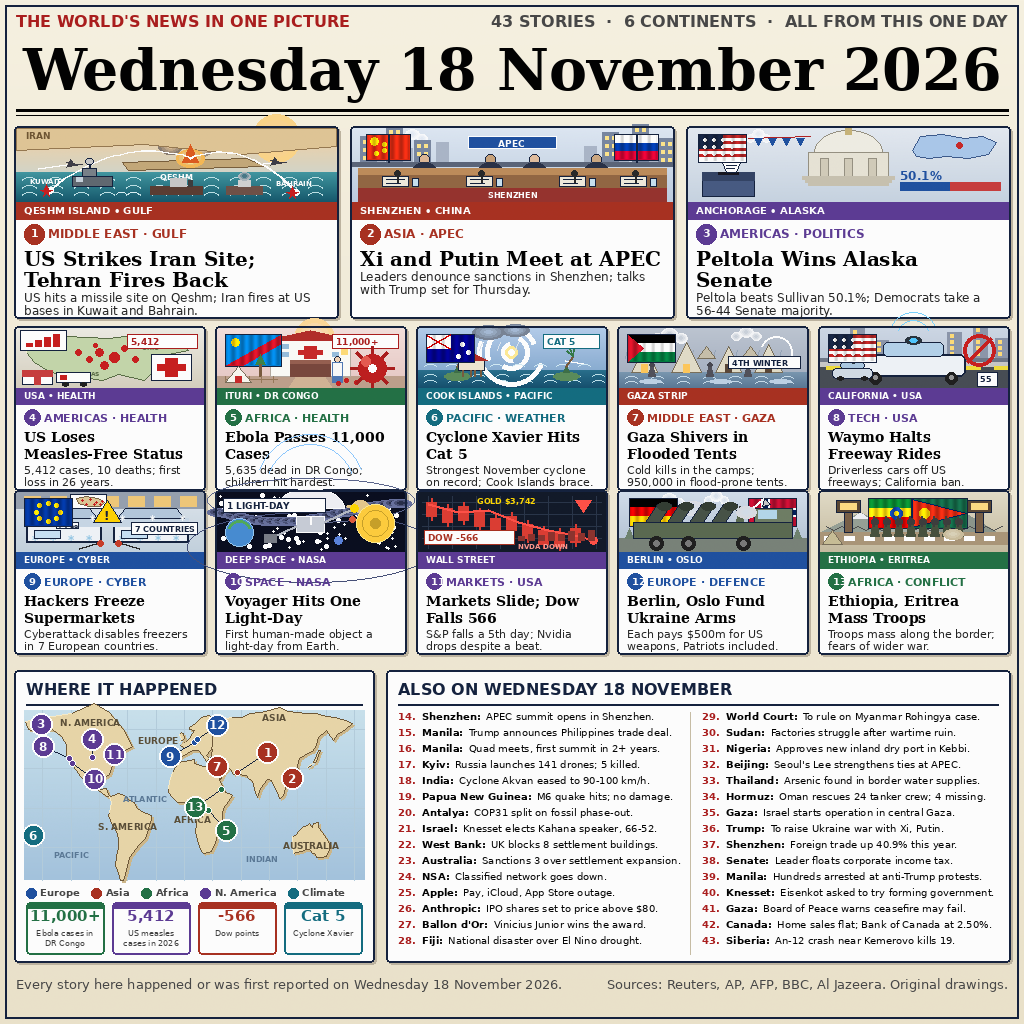
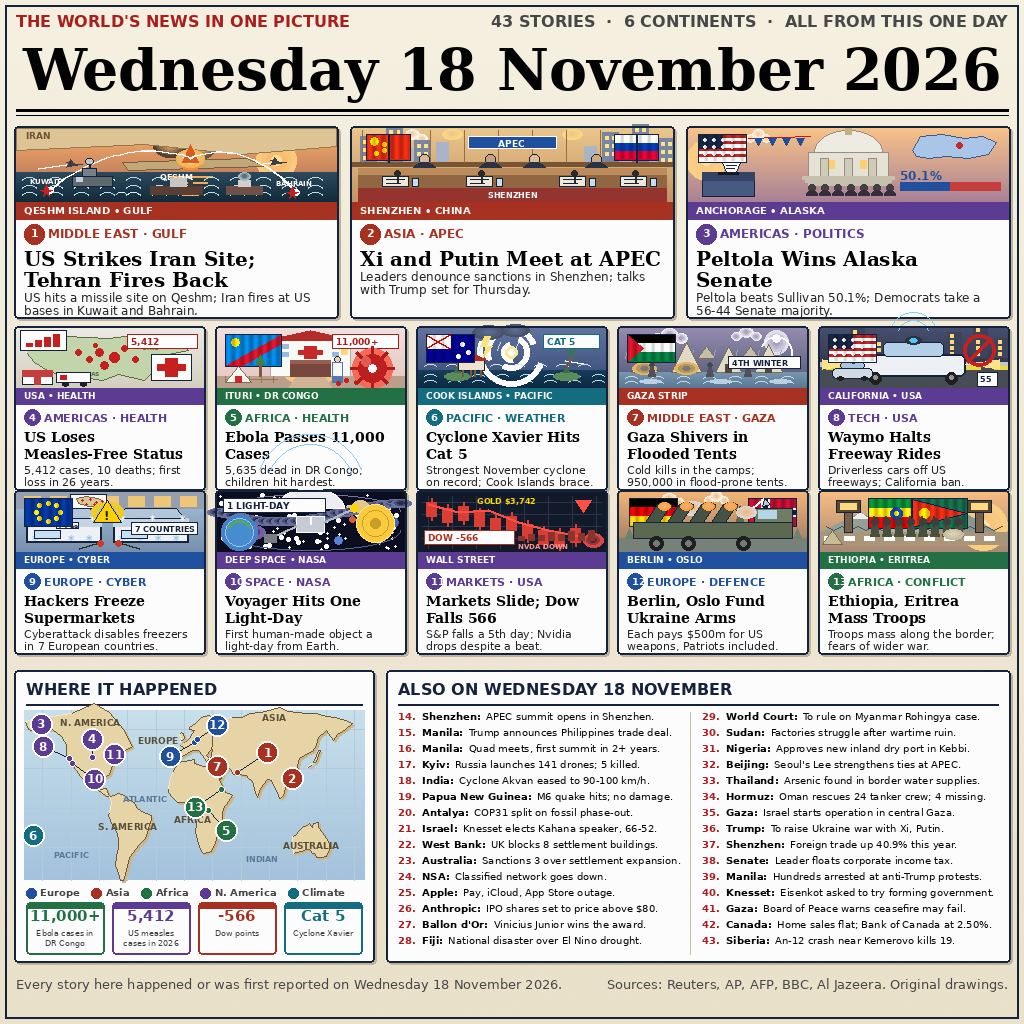
Revise: realistic dramatic illustrations like @artch0 — dusk Gulf fire, warm APEC room, dusk Capitol crowd, storm Xavier, glowing Voyager; fix orbit spill

diff --git a/tools/generate-image.py b/tools/generate-image.py
@@ -225,9 +225,9 @@ def pic(kind, x, y, w, h):
     if kind == "gulf":
         # the Gulf at dusk: Iran's coast along the top, the strait below,
         # a missile site on Qeshm flashing, US base markers, a tanker
-        vgrad(x, y, w, h, (246, 210, 160), (190, 216, 228))
-        sun_glow(x + w - 60, y + 10, 6, (246, 210, 160))
-        cloud(x + 50, y + 8, 10, (246, 210, 160))
+        vgrad(x, y, w, h, (252, 176, 104), (168, 104, 88))
+        sun_glow(x + w - 60, y + 32, 5, (252, 176, 104))
+        cloud(x + 50, y + 8, 10, (252, 176, 104))
         # fighter jets with contrails over the open water
         for jx, jy in [(x + 56, y + 34), (x + 260, y + 32)]:
             d.line([(jx - 34, jy + 6), (jx - 6, jy + 2)], fill=(255, 255, 255), width=2)
@@ -235,14 +235,17 @@ def pic(kind, x, y, w, h):
                       fill=(60, 60, 70))
             d.polygon([(jx - 2, jy - 3), (jx + 2, jy + 2), (jx - 4, jy + 3)], fill=(60, 60, 70))
         # layered smoke columns rising from the strike on Qeshm
-        soft_disc(x + w // 2 - 6, y + 18, 12, 8, (120, 110, 105), (246, 210, 160), steps=4)
-        soft_disc(x + w // 2 + 26, y + 22, 9, 6, (140, 130, 125), (246, 210, 160), steps=4)
+        soft_disc(x + w // 2 - 6, y + 18, 17, 11, (52, 46, 44), (252, 176, 104), steps=5)
+        soft_disc(x + w // 2 + 26, y + 22, 12, 8, (74, 66, 62), (252, 176, 104), steps=5)
         # radar tower on the Iranian coast, right of the sun glow
         d.rectangle([x + w - 78, y + 6, x + w - 74, y + 22], fill=(90, 85, 80))
         d.ellipse([x + w - 83, y + 2, x + w - 69, y + 10], fill=(200, 200, 200),
                   outline=(90, 85, 80), width=1)
         # sea: darker toward the bottom, with wave arcs
-        vgrad(x, y + h - 30, w, 30, (64, 150, 160), (20, 88, 108))
+        vgrad(x, y + h - 30, w, 30, (44, 72, 92), (16, 42, 58))
+        # firelight from the Qeshm strike reflected on the dark water
+        for rw_, rwid in [(y + h - 26, 44), (y + h - 20, 34), (y + h - 14, 24), (y + h - 8, 16)]:
+            d.line([(x + w // 2 + 14 - rwid // 2, rw_), (x + w // 2 + 14 + rwid // 2, rw_)], fill=(255, 170, 70), width=2)
         for wy in (y + h - 22, y + h - 14, y + h - 7):
             for wx in range(x + 6, x + w - 12, 26):
                 d.arc([wx, wy - 3, wx + 14, wy + 3], 180, 360, fill=(190, 225, 230), width=1)
@@ -255,6 +258,7 @@ def pic(kind, x, y, w, h):
         d.polygon([(x + w // 3, y + 34), (x + w * 0.72, y + 30), (x + w * 0.78, y + 38),
                    (x + w // 3 + 6, y + 42)], fill=(196, 168, 120), outline=(120, 95, 60))
         d.text((x + w // 2 - 16, y + 44), "QESHM", font=font(SANSB, 8), fill=(255, 255, 255))
+        soft_disc(x + w // 2 + 14, y + 32, 13, 9, (255, 140, 40), (252, 176, 104), steps=4)
         soft_disc(x + w // 2 + 14, y + 30, 14, 9, (255, 180, 60), (200, 216, 228), steps=4)
         soft_disc(x + w // 2 + 14, y + 30, 7, 5, (255, 230, 130), (200, 216, 228), steps=3)
         d.polygon([(x + w // 2 + 6, y + 34), (x + w // 2 + 14, y + 16), (x + w // 2 + 22, y + 34)],
@@ -303,8 +307,10 @@ def pic(kind, x, y, w, h):
     elif kind == "apec":
         # APEC summit in Shenzhen: tower skyline, a long summit table,
         # Chinese and Russian flags on poles, folders and microphones
-        vgrad(x, y, w, h, (222, 232, 244), (190, 205, 225))
-        cloud(x + 60, y + 8, 10, (222, 232, 244))
+        vgrad(x, y, w, h, (238, 200, 140), (196, 150, 100))
+        soft_disc(x + w // 2 - 60, y + 6, 10, 5, (255, 220, 130), (238, 200, 140), steps=4)
+        soft_disc(x + w // 2 + 60, y + 6, 10, 5, (255, 220, 130), (238, 200, 140), steps=4)
+        cloud(x + 60, y + 8, 10, (238, 200, 140))
         # a fainter second row of towers behind the skyline
         for tx, th in [(x + 20, 18), (x + 48, 14), (x + 84, 20), (x + w - 88, 16),
                        (x + w - 56, 20), (x + w - 26, 14)]:
@@ -316,7 +322,9 @@ def pic(kind, x, y, w, h):
             for wy in range(y + 38 - th, y + 32, 8):
                 d.rectangle([tx + 3, wy, tx + 6, wy + 3], fill=(255, 230, 140))
                 d.rectangle([tx + 10, wy, tx + 13, wy + 3], fill=(255, 230, 140))
-        d.rectangle([x, y + 34, x + w, y + 38], fill=(90, 100, 120))
+        d.rectangle([x, y + 34, x + w, y + 38], fill=(120, 84, 52))
+        for wx_ in range(x + 10, x + w - 10, 34):
+            d.line([(wx_, y + 2), (wx_, y + 34)], fill=(150, 108, 66), width=1)
         # flags on poles behind the table
         flag("china", x + 14, y + 6, 44, 26)
         d.line([(x + 36, y + 6), (x + 36, y + 34)], fill=NAVY, width=2)
@@ -349,8 +357,9 @@ def pic(kind, x, y, w, h):
                fill=(255, 255, 255))
     elif kind == "senate":
         # Alaska Senate race: US Capitol dome, a ballot box, vote bars
-        vgrad(x, y, w, h, (228, 234, 242), (200, 212, 226))
-        cloud(x + 70, y + 8, 8, (228, 234, 242))
+        vgrad(x, y, w, h, (252, 196, 138), (170, 130, 150))
+        cloud(x + 70, y + 8, 8, (252, 196, 138))
+        sun_glow(x + 18, y + 32, 5, (252, 196, 138))
         # Alaska, top-right, with a star on Anchorage
         ak = [(x + w - 96, y + 22), (x + w - 88, y + 8), (x + w - 66, y + 6),
               (x + w - 44, y + 10), (x + w - 26, y + 8), (x + w - 12, y + 14),
@@ -364,6 +373,8 @@ def pic(kind, x, y, w, h):
                    fill=(240, 238, 228), outline=(150, 145, 130), width=1)
         d.rectangle([x + w // 2 - 40, y + 24, x + w // 2 + 40, y + h - 26],
                     fill=(232, 228, 214), outline=(150, 145, 130), width=1)
+        for wx_ in (x + w // 2 - 20, x + w // 2 + 12):
+            d.rectangle([wx_, y + 32, wx_ + 6, y + 40], fill=(255, 210, 110))
         for cx in (x + w // 2 - 28, x + w // 2 - 4, x + w // 2 + 20):
             d.rectangle([cx, y + 30, cx + 8, y + h - 26], fill=(210, 204, 186),
                         outline=(150, 145, 130), width=1)
@@ -374,6 +385,10 @@ def pic(kind, x, y, w, h):
                          x + w // 2 + 46 - sstep * 3, y + h - 23 + sstep * 3],
                         fill=(200, 194, 176))
         d.line([(x + 60, y + 10), (x + 122, y + 8)], fill=(178, 34, 34), width=1)
+        # a crowd gathered on the Capitol steps at dusk
+        for cx_ in range(x + w // 2 - 40, x + w // 2 + 44, 13):
+            d.ellipse([cx_, y + h - 18, cx_ + 7, y + h - 11], fill=(70, 60, 70))
+            d.pieslice([cx_ - 2, y + h - 12, cx_ + 9, y + h - 2], 180, 360, fill=(50, 45, 60))
         for bx_ in range(x + 66, x + 120, 14):
             d.polygon([(bx_, y + 10), (bx_ + 8, y + 10), (bx_ + 4, y + 17)],
                       fill=(30, 80, 160))
@@ -439,7 +454,8 @@ def pic(kind, x, y, w, h):
         # a clinic in the Congo: warm wall, red roof, virus at right
         vgrad(x, y, w, h, (244, 224, 220), (232, 200, 196))
         d.rectangle([x, y + h - 12, x + w, y + h], fill=(190, 160, 140))
-        sun_glow(x + w - 90, y + 10, 5, (244, 224, 220))
+        sun_glow(x + w - 90, y + 30, 6, (244, 224, 220))
+        soft_disc(x + w // 2, y + h - 14, 26, 10, (255, 200, 110), (232, 200, 196), steps=4)
         d.polygon([(x + w // 2 - 14, y + h - 12), (x + w // 2 + 14, y + h - 12),
                    (x + w // 2 + 22, y + h), (x + w // 2 - 22, y + h)], fill=(210, 180, 150))
         d.rectangle([x + w // 2 - 40, y + 12, x + w // 2 + 40, y + h - 12], fill=(252, 252, 248),
@@ -482,6 +498,7 @@ def pic(kind, x, y, w, h):
         d.text((x + w - 68, y + 8), "11,000+", font=font(SANSB, 9), fill=RED)
         # the virus: spiked red ball, lower-right
         cx, cy, r = x + w - 32, y + h // 2 + 10, 14
+        soft_disc(cx, cy, 20, 20, (255, 90, 70), (232, 200, 196), steps=3)
         for ang in range(0, 360, 45):
             dx, dy = math.cos(math.radians(ang)), math.sin(math.radians(ang))
             d.line([cx + dx * r, cy + dy * r, cx + dx * (r + 8), cy + dy * (r + 8)],
@@ -491,15 +508,15 @@ def pic(kind, x, y, w, h):
         d.ellipse([cx - 4, cy - 4, cx + 4, cy + 4], fill=(255, 255, 255))
     elif kind == "cyclone":
         # a Category 5 spiral over the Pacific, small islands below
-        vgrad(x, y, w, h, (180, 205, 235), (120, 160, 200))
-        vgrad(x, y + h - 18, w, 18, (40, 110, 140), (20, 80, 110))
+        vgrad(x, y, w, h, (96, 116, 160), (52, 74, 118))
+        vgrad(x, y + h - 18, w, 18, (20, 60, 90), (10, 40, 65))
         for wy in (y + h - 12, y + h - 6):
             for wx in range(x + 6, x + w - 12, 24):
                 d.arc([wx, wy - 2, wx + 12, wy + 2], 180, 360, fill=(190, 225, 235), width=1)
         # spiral arms: concentric arcs shrinking toward the eye
         cx, cy = x + w // 2, y + h // 2 - 6
         for rr, a0, a1 in [(34, 20, 200), (26, 160, 340), (18, 300, 120), (10, 80, 260)]:
-            d.arc([cx - rr, cy - rr, cx + rr, cy + rr], a0, a1, fill=(255, 255, 255), width=5)
+            d.arc([cx - rr, cy - rr, cx + rr, cy + rr], a0, a1, fill=(255, 255, 255), width=6)
         d.ellipse([cx - 6, cy - 6, cx + 6, cy + 6], fill=(255, 235, 150))
         d.ellipse([cx - 3, cy - 3, cx + 3, cy + 3], fill=(255, 255, 255))
         # wind streaks at the edges
@@ -507,8 +524,9 @@ def pic(kind, x, y, w, h):
                        (x + w - 40, y + h - 28)]:
             d.line([(sx, sy), (sx + 18, sy + 3)], fill=(255, 255, 255), width=2)
         # storm clouds crowding the top corners, rain slanting down
-        soft_disc(x + 70, y + 4, 16, 7, (110, 120, 135), (180, 205, 235), steps=4)
-        soft_disc(x + w - 90, y + 2, 14, 6, (110, 120, 135), (180, 205, 235), steps=4)
+        soft_disc(x + 70, y + 4, 16, 7, (70, 78, 100), (96, 116, 160), steps=4)
+        d.polygon([(x + 66, y + 8), (x + 72, y + 8), (x + 68, y + 18), (x + 74, y + 18), (x + 64, y + 30), (x + 68, y + 18), (x + 62, y + 18)], fill=(255, 230, 120))
+        soft_disc(x + w - 90, y + 2, 14, 6, (70, 78, 100), (96, 116, 160), steps=4)
         for rx in range(x + 64, x + w - 70, 18):
             d.line([(rx, y + 14), (rx - 3, y + 22)], fill=(220, 230, 240), width=1)
         # bigger waves: a second row of breakers
@@ -540,9 +558,11 @@ def pic(kind, x, y, w, h):
         d.text((x + w - 58, y + 8), "CAT 5", font=font(SANSB, 9), fill=TEAL)
     elif kind == "gaza":
         # tents in the rain: grey-blue sky, flooded ground, tent rows
-        vgrad(x, y, w, h, (190, 198, 210), (160, 172, 190))
-        cloud(x + 50, y + 8, 12, (190, 198, 210))
-        cloud(x + w - 60, y + 6, 10, (190, 198, 210))
+        vgrad(x, y, w, h, (150, 140, 175), (80, 88, 120))
+        soft_disc(x + w - 30, y + 14, 12, 12, (240, 240, 250), (150, 140, 175), steps=4)
+        d.ellipse([x + w - 34, y + 6, x + w - 26, y + 14], fill=(250, 250, 255))
+        cloud(x + 50, y + 8, 12, (150, 140, 175))
+        cloud(x + w - 60, y + 6, 10, (150, 140, 175))
         for rx in range(x + 8, x + w - 8, 22):
             d.line([(rx, y + 22), (rx - 2, y + 30)], fill=(150, 165, 185), width=1)
         # flood water along the bottom
@@ -562,6 +582,8 @@ def pic(kind, x, y, w, h):
         # warm light glowing in two tent doors, and families sheltering
         for gx_ in (x + 22, x + 64):
             d.rectangle([gx_, y + h - 24, gx_ + 6, y + h - 16], fill=(255, 200, 90))
+        soft_disc(x + 25, y + h - 20, 12, 6, (255, 200, 90), (80, 88, 120), steps=3)
+        soft_disc(x + 67, y + h - 20, 12, 6, (255, 200, 90), (80, 88, 120), steps=3)
         for fx_ in (x + 30, x + 88, x + 126):
             d.ellipse([fx_, y + h - 26, fx_ + 5, y + h - 21], fill=(70, 70, 80))
             d.polygon([(fx_ + 1, y + h - 21), (fx_ + 4, y + h - 21), (fx_ + 6, y + h - 12),
@@ -578,12 +600,12 @@ def pic(kind, x, y, w, h):
 
     elif kind == "waymo":
         # a driverless car on a freeway, under a red ban sign
-        vgrad(x, y, w, h, (206, 216, 230), (180, 192, 208))
+        vgrad(x, y, w, h, (70, 78, 110), (34, 40, 64))
         # city skyline along the back
         for tx, th in [(x + 8, 20), (x + 30, 30), (x + 54, 18), (x + w - 60, 26),
                        (x + w - 34, 32), (x + w - 12, 20)]:
-            d.rectangle([tx, y + 30 - th, tx + 14, y + 30], fill=(140, 150, 170))
-        d.rectangle([x, y + 30, x + w, y + 34], fill=(110, 118, 135))
+            d.rectangle([tx, y + 30 - th, tx + 14, y + 30], fill=(60, 66, 90))
+        d.rectangle([x, y + 30, x + w, y + 34], fill=(50, 55, 75))
         # lit windows in the skyline towers
         for tx, th in [(x + 8, 20), (x + 30, 30), (x + 54, 18), (x + w - 60, 26),
                        (x + w - 34, 32), (x + w - 12, 20)]:
@@ -601,6 +623,9 @@ def pic(kind, x, y, w, h):
                             radius=5, fill=(180, 210, 235), outline=NAVY, width=1)
         d.ellipse([x + w // 2 - 8, y + h - 52, x + w // 2 + 8, y + h - 44], fill=(40, 50, 60))
         d.ellipse([x + w // 2 - 4, y + h - 50, x + w // 2 + 4, y + h - 46], fill=(80, 200, 255))
+        # headlight beams cutting across the dark freeway
+        d.polygon([(x + w // 2 + 52, y + h - 24), (x + w - 8, y + h - 29), (x + w - 8, y + h - 19)], fill=(255, 230, 140))
+        d.polygon([(x + w // 2 - 52, y + h - 24), (x + 2, y + h - 29), (x + 2, y + h - 19)], fill=(255, 230, 140))
         d.ellipse([x + w // 2 - 44, y + h - 16, x + w // 2 - 32, y + h - 4], fill=(30, 30, 30))
         d.ellipse([x + w // 2 + 32, y + h - 16, x + w // 2 + 44, y + h - 4], fill=(30, 30, 30))
         d.ellipse([x + w // 2 - 40, y + h - 13, x + w // 2 - 36, y + h - 9], fill=(150, 150, 150))
@@ -627,7 +652,7 @@ def pic(kind, x, y, w, h):
         flag("us", x + 8, y + 6, 48, 28)
     elif kind == "cyber":
         # a supermarket freezer aisle: frosted chests, a warning sign
-        vgrad(x, y, w, h, (222, 230, 238), (196, 210, 222))
+        vgrad(x, y, w, h, (170, 195, 220), (120, 145, 175))
         # shelf wall along the back, with small packs
         d.rectangle([x, y, x + w, y + 16], fill=(150, 160, 175))
         for sx in range(x + 8, x + w - 20, 26):
@@ -660,6 +685,7 @@ def pic(kind, x, y, w, h):
         for ix in range(x + 14, x + w - 14, 30):
             d.text((ix, y + 20), "*", font=font(SANSB, 10), fill=(255, 255, 255))
         # a warning triangle between the chests, and a cut cable
+        soft_disc(x + w // 2 - 2, y + 20, 16, 10, (255, 210, 0), (170, 195, 220), steps=3)
         d.polygon([(x + w // 2 - 2, y + 8), (x + w // 2 + 12, y + 30), (x + w // 2 - 16, y + 30)],
                   fill=(255, 210, 0), outline=NAVY, width=1)
         d.text((x + w // 2 - 5, y + 16), "!", font=font(SANSB, 12), fill=NAVY)
@@ -685,15 +711,18 @@ def pic(kind, x, y, w, h):
         for mx_ in range(x, x + w, 8):
             my_ = y + h // 3 + int(10 * math.sin((mx_ - x) / 40))
             soft_disc(mx_, my_, 10, 4, (120, 130, 180), (8, 12, 30), steps=3)
-        # Saturn with its ring, top-right, and orbit lines sweeping the frame
+        soft_disc(x + 30, y + h - 20, 18, 8, (140, 110, 190), (8, 12, 30), steps=3)
+        soft_disc(x + w - 20, y + 30, 14, 7, (90, 120, 200), (8, 12, 30), steps=3)
+        # Saturn with its ring, top-right, and orbit arcs kept inside the panel
         d.ellipse([x + w - 52, y + 8, x + w - 36, y + 20], fill=(230, 200, 140))
         d.ellipse([x + w - 58, y + 12, x + w - 30, y + 16], outline=(230, 200, 140), width=2)
-        d.ellipse([x - 10, y - 14, x + w + 10, y + 30], outline=(90, 100, 140), width=1)
-        d.ellipse([x - 30, y + 20, x + w + 30, y + h + 30], outline=(70, 80, 120), width=1)
+        d.arc([x + 4, y + 2, x + w - 4, y + 36], 180, 360, fill=(110, 120, 165), width=1)
+        d.arc([x + 4, y + 18, x + w - 4, y + h - 2], 0, 180, fill=(90, 100, 140), width=1)
         # a red Mars dot and a distant blue planet
         d.ellipse([x + 132, y + 24, x + 138, y + 30], fill=(220, 90, 60))
         d.ellipse([x + w - 70, y + h - 16, x + w - 62, y + h - 8], fill=(90, 130, 220))
         # Earth, small and blue, bottom-left
+        soft_disc(x + 22, y + h - 20, 18, 18, (80, 150, 230), (8, 12, 30), steps=4)
         d.ellipse([x + 8, y + h - 34, x + 36, y + h - 6], fill=(70, 140, 210),
                   outline=(150, 200, 240), width=1)
         d.arc([x + 10, y + h - 32, x + 34, y + h - 8], 200, 340, fill=(80, 170, 90), width=3)
@@ -717,6 +746,7 @@ def pic(kind, x, y, w, h):
             d.arc([x + w // 2 - rr, y + h // 2 - 34 - rr, x + w // 2 + rr,
                    y + h // 2 - 34 + rr], 200, 340, fill=(140, 200, 255), width=1)
         # the golden record, a bright disc with grooves
+        soft_disc(x + w - 29, y + h - 29, 12, 12, (255, 205, 60), (8, 12, 30), steps=3)
         d.ellipse([x + w - 48, y + h - 48, x + w - 10, y + h - 10], fill=(255, 205, 60),
                   outline=(255, 235, 140), width=1)
         d.ellipse([x + w - 42, y + h - 42, x + w - 16, y + h - 16], outline=(200, 160, 40),
@@ -744,6 +774,7 @@ def pic(kind, x, y, w, h):
         d.line(pts, fill=(255, 80, 70), width=3)
         d.ellipse([pts[-1][0] - 4, pts[-1][1] - 4, pts[-1][0] + 4, pts[-1][1] + 4],
                   fill=(255, 80, 70))
+        soft_disc(pts[-1][0], pts[-1][1], 10, 7, (255, 80, 70), (16, 24, 40), steps=3)
         # volume bars along the bottom and a ticker tape
         for i, vh in enumerate([4, 6, 5, 8, 6, 9, 7, 10]):
             vx0 = x + 100 + i * 10
@@ -761,8 +792,8 @@ def pic(kind, x, y, w, h):
                fill=(255, 215, 0))
     elif kind == "patriot":
         # Patriot launchers on a truck, German and Norwegian flags
-        vgrad(x, y, w, h, (210, 222, 236), (178, 192, 210))
-        cloud(x + 50, y + 8, 10, (210, 222, 236))
+        vgrad(x, y, w, h, (244, 182, 118), (150, 118, 100))
+        cloud(x + 50, y + 8, 10, (244, 182, 118))
         d.rectangle([x, y + h - 14, x + w, y + h], fill=(120, 130, 120))
         for gx_ in range(x + 6, x + w - 6, 24):
             d.polygon([(gx_, y + h - 14), (gx_ + 4, y + h - 24), (gx_ + 8, y + h - 14)],
@@ -774,8 +805,8 @@ def pic(kind, x, y, w, h):
             d.polygon([(sx_ + 1, y + h - 37), (sx_ + 6, y + h - 37), (sx_ + 8, y + h - 22),
                        (sx_ - 1, y + h - 22)], fill=(90, 105, 80))
             d.line([(sx_ + 4, y + h - 36), (sx_ + 4, y + h - 46)], fill=(60, 60, 60), width=2)
-        cloud(x + w - 90, y + 6, 8, (210, 222, 236))
-        soft_disc(x + w // 2 - 20, y + 16, 12, 7, (225, 225, 230), (210, 222, 236), steps=4)
+        cloud(x + w - 90, y + 6, 8, (244, 182, 118))
+        soft_disc(x + w // 2 - 20, y + 16, 12, 7, (225, 225, 230), (244, 182, 118), steps=4)
         flag("germany", x + 10, y + 6, 48, 28)
         flag("norway", x + w - 58, y + 6, 48, 28)
         # the launcher truck, low in the frame
@@ -793,15 +824,17 @@ def pic(kind, x, y, w, h):
             d.polygon([(tx0, y + h - 30), (tx0 + 14, y + h - 30), (tx0 + 26, y + 12),
                        (tx0 + 12, y + 12)], fill=(70, 82, 70), outline=NAVY, width=1)
             d.ellipse([tx0 + 12, y + 10, tx0 + 26, y + 18], fill=(50, 60, 50))
+            soft_disc(tx0 + 19, y + 14, 6, 4, (255, 160, 60), (244, 182, 118), steps=3)
         # a missile streaking up, with a smoke trail
         d.line([(x + w // 2 + 40, y + 16), (x + w // 2 + 52, y + 6)], fill=(255, 255, 255),
                width=2)
         d.polygon([(x + w // 2 + 52, y + 6), (x + w // 2 + 58, y + 12), (x + w // 2 + 50, y + 14)],
                   fill=(200, 200, 200), outline=NAVY, width=1)
-        soft_disc(x + w // 2 + 34, y + 20, 10, 6, (220, 220, 225), (210, 222, 236), steps=4)
+        soft_disc(x + w // 2 + 34, y + 20, 10, 6, (220, 220, 225), (244, 182, 118), steps=4)
     elif kind == "border":
         # a border line in the highlands: watchtowers, two flags, troops
-        vgrad(x, y, w, h, (226, 220, 200), (198, 188, 160))
+        vgrad(x, y, w, h, (250, 190, 128), (168, 138, 118))
+        sun_glow(x + w - 24, y + 34, 6, (250, 190, 128))
         d.polygon([(x, y + h - 20), (x + 40, y + h - 40), (x + 80, y + h - 20)],
                   fill=(150, 160, 150))
         d.polygon([(x + w - 90, y + h - 20), (x + w - 50, y + h - 44), (x + w - 10, y + h - 20)],
